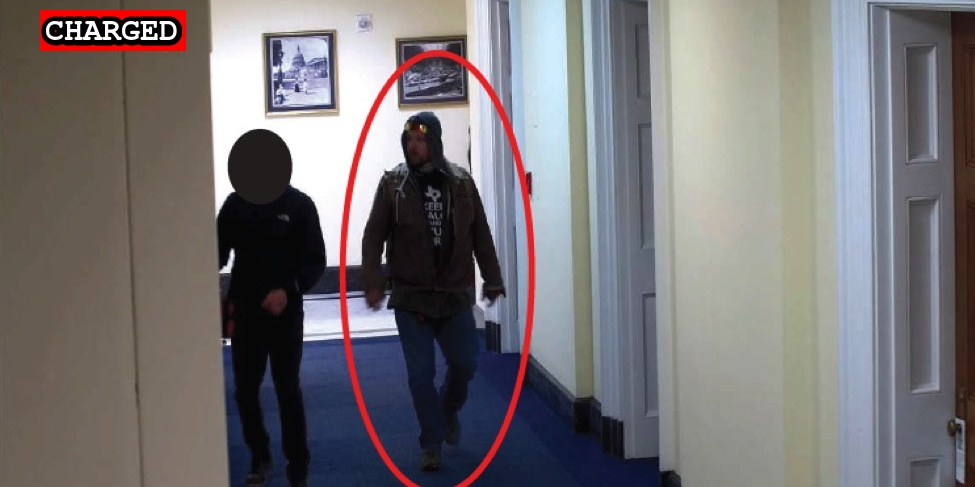
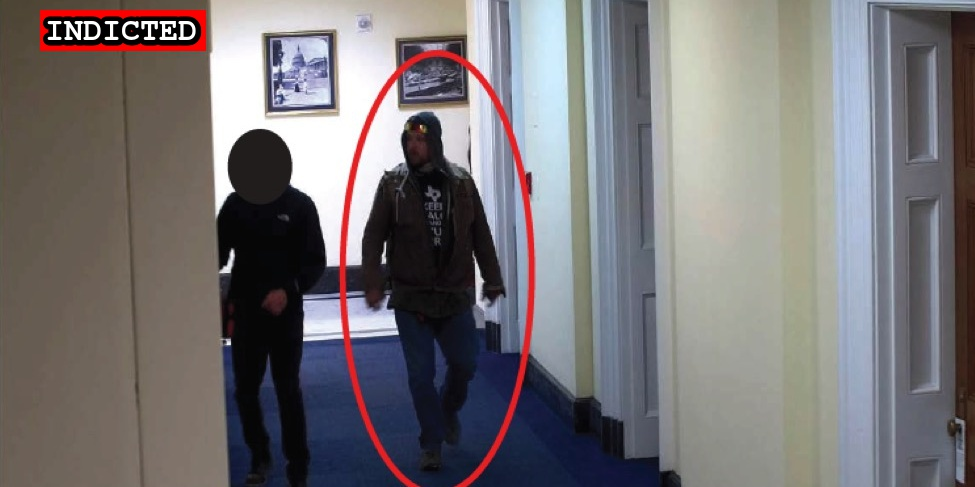
New indictments

Changed region(s): [[0.0308, 0.0, 0.2154, 0.1232]]

diff --git a/commands/suspect-import.ts b/commands/suspect-import.ts
@@ -353,6 +353,8 @@ const linkType = (description: string, lastName?: string) => {
         return "Government's Opposition to Modifying Conditions of Release"
       case /\.*Opposition to Defendant's Motion for Discovery/.test(description):
         return "Government's Opposition to Defendent's Motion for Discovery"
+      case /\.*Judgement\.*/.test(description):
+        return "Judgement"
       case /Bustle*/.test(description):
       case /grods\.pdf/.test(description):
         return "DOJ Press Release"

diff --git a/docs/suspects/traci-sunstrom.html b/docs/suspects/traci-sunstrom.html
@@ -1,0 +1,4 @@
+---
+layout: redirect
+slug: traci-sunstrum
+---

diff --git a/docs/_suspects/christopher-warnagiris.md b/docs/_suspects/christopher-warnagiris.md
@@ -3,13 +3,14 @@ name: Christopher Warnagiris
 lastName: Warnagiris
 aka:
 residence: Virginia
-status: Charged
+status: Indicted
 date: 2021-05-13
 charged: 2021-05-13
-indicted:
-convicted: 
-sentenced: 
-dismissed: 
+indicted: 2021-06-02
+convicted:
+sentenced:
+dismissed:
+deceased:
 age: 40
 occupation: Active Duty U.S. Marine Corps Officer
 affiliations:
@@ -29,6 +30,8 @@ layout: suspect
 published: true
 charges:
 ---
+
 - [News Report](https://www.newsweek.com/christopher-warnagiris-active-duty-marine-based-quantico-arrested-assaulting-officer-capitol-1591329)
 - [DOJ Press Release](https://www.justice.gov/usao-dc/pr/active-duty-us-marine-corps-officer-arrested-assault-federal-law-enforcement-officer)
 - [Statement of Facts](https://www.justice.gov/opa/press-release/file/1393941/download)
+- [Indictment](https://www.justice.gov/usao-dc/case-multi-defendant/file/1415461/download)

diff --git a/docs/_suspects/traci-sunstrum.md b/docs/_suspects/traci-sunstrum.md
@@ -1,15 +1,15 @@
 ---
-name: Traci Sunstrom
-lastName: Sunstrom
+name: Traci Sunstrum
+lastName: Sunstrum
 aka:
 residence: New York
 status: Charged
 date: 2021-04-13
 charged: 2021-04-13
 indicted:
-convicted: 
-sentenced: 
-dismissed: 
+convicted:
+sentenced:
+dismissed:
 age: 44
 occupation:
 affiliations:
@@ -22,12 +22,13 @@ courthouse:
 raid:
 perpwalk:
 quote:
-title: Traci Sunstrom charged on April 13, 2021
+title: Traci Sunstrum charged on April 13, 2021
 description: Click for latest case details. Suspects innocent until proven guilty.
 author: seditiontrack
 layout: suspect
 published: true
 charges:
 ---
+
 - [News Report](https://news.wbfo.org/post/four-more-local-suspects-charged-us-capitol-riot)
 - [Statement of Facts](https://www.justice.gov/usao-dc/case-multi-defendant/file/1395326/download)

diff --git a/docs/_suspects/ryan-suleski.md b/docs/_suspects/ryan-suleski.md
@@ -3,13 +3,14 @@ name: Ryan Suleski
 lastName: Suleski
 aka:
 residence: Virginia
-status: Charged
+status: Indicted
 date: 2021-03-05
 charged: 2021-03-05
-indicted:
-convicted: 
-sentenced: 
-dismissed: 
+indicted: 2021-05-26
+convicted:
+sentenced:
+dismissed:
+deceased:
 age: 37
 occupation:
 affiliations:
@@ -29,6 +30,8 @@ layout: suspect
 published: true
 charges:
 ---
+
 - [News Report (Twitter)](https://twitter.com/ryanjreilly/status/1377307092478873601)
 - [Statement of Facts](https://extremism.gwu.edu/sites/g/files/zaxdzs2191/f/Ryan%20Seth%20Suleski%20Statement%20of%20Facts.pdf)
 - [Complaint](https://extremism.gwu.edu/sites/g/files/zaxdzs2191/f/)
+- [Indictment](https://www.justice.gov/usao-dc/case-multi-defendant/file/1415001/download)

diff --git a/docs/_suspects/paul-hodgkins.md b/docs/_suspects/paul-hodgkins.md
@@ -8,8 +8,9 @@ date: 2021-02-09
 charged: 2021-02-09
 indicted: 2021-03-05
 convicted: 2021-06-02
-sentenced: 2021-07-19
+sentenced:
 dismissed: 
+deceased:
 age: 38
 occupation:
 affiliations:
@@ -34,3 +35,4 @@ charges:
 - [Indictment](https://www.justice.gov/usao-dc/case-multi-defendant/file/1377756/download)
 - [DOJ Press Release (Guilty Plea)](https://www.justice.gov/opa/pr/man-pleads-guilty-obstruction-official-proceeding-breaching-us-capitol-jan-6)
 - [Plea Agreement](https://extremism.gwu.edu/sites/g/files/zaxdzs2191/f/Paul%20Allard%20Hodgkins%20Plea%20Agreement.pdf)
+- [Judgement](https://www.justice.gov/usao-dc/case-multi-defendant/file/1415521/download)

diff --git a/docs/_suspects/douglas-wangler.md b/docs/_suspects/douglas-wangler.md
@@ -8,8 +8,9 @@ date: 2021-05-12
 charged: 2021-05-12
 indicted:
 convicted: 
-sentenced: 
+sentenced:
 dismissed: 
+deceased:
 age: 53
 occupation:
 affiliations:
@@ -32,3 +33,4 @@ charges:
 - [News Report](https://www.wcia.com/news/two-central-illinois-men-charged-in-january-6-capitol-attack/)
 - [Statement of Facts](https://extremism.gwu.edu/sites/g/files/zaxdzs2191/f/Douglas%20Wangler%20Bruce%20Harrison%20Statement%20of%20Facts.pdf)
 - [DOJ Press Release](https://www.justice.gov/usao-dc/case-multi-defendant/file/1394446/download)
+- [Information](https://www.justice.gov/usao-dc/case-multi-defendant/file/1415426/download)

diff --git a/docs/_suspects/michael-timbrook.md b/docs/_suspects/michael-timbrook.md
@@ -8,8 +8,9 @@ date: 2021-04-20
 charged: 2021-04-20
 indicted:
 convicted: 
-sentenced: 
+sentenced:
 dismissed: 
+deceased:
 age: 56
 occupation:
 affiliations:
@@ -32,3 +33,4 @@ charges:
 - [News Report](https://www.tennessean.com/story/news/local/2021/04/20/michael-timbrook-cookeville-charged-u-s-capitol-riots/7303194002/)
 - [Complaint](https://www.justice.gov/usao-dc/case-multi-defendant/file/1388351/download)
 - [Statement of Facts](https://www.justice.gov/usao-dc/case-multi-defendant/file/1388356/download)
+- [Information](https://www.justice.gov/usao-dc/case-multi-defendant/file/1415206/download)

diff --git a/docs/_suspects/lori-vinson.md b/docs/_suspects/lori-vinson.md
@@ -8,8 +8,9 @@ date: 2021-02-23
 charged: 2021-02-23
 indicted:
 convicted: 
-sentenced: 
+sentenced:
 dismissed: 
+deceased:
 age:
 occupation: Nurse
 affiliations:
@@ -32,3 +33,4 @@ charges:
 - [News Report](https://www.kentucky.com/news/local/crime/article249457150.html)
 - [FBI Statement (Twitter)](https://twitter.com/FBILouisville/status/1364284639385378825)
 - [Statement of Facts](https://extremism.gwu.edu/sites/g/files/zaxdzs2191/f/Lori%20Vinson%20and%20Thomas%20Vinson%20Statement%20of%20Facts.pdf)
+- [Information](https://www.justice.gov/usao-dc/case-multi-defendant/file/1415381/download)

diff --git a/docs/_suspects/philip-vogel.md b/docs/_suspects/philip-vogel.md
@@ -8,8 +8,9 @@ date: 2021-03-12
 charged: 2021-03-12
 indicted:
 convicted: 
-sentenced: 
+sentenced:
 dismissed: 
+deceased:
 age: 33
 occupation:
 affiliations:
@@ -31,3 +32,4 @@ charges:
 ---
 - [News Report](https://observer-reporter.com/news/localnews/former-houston-man-fianc-e-charged-in-capitol-insurrection/article_07ae2bca-88f7-11eb-9fa2-8bfe6a9097a8.html)
 - [Statement of Facts](https://extremism.gwu.edu/sites/g/files/zaxdzs2191/f/Philip%20Vogel%20II%20Statement%20of%20Facts.pdf)
+- [Information](https://www.justice.gov/usao-dc/case-multi-defendant/file/1415371/download)

diff --git a/docs/_suspects/daniel-warmus.md b/docs/_suspects/daniel-warmus.md
@@ -8,8 +8,9 @@ date: 2021-05-17
 charged: 2021-05-17
 indicted:
 convicted: 
-sentenced: 
+sentenced:
 dismissed: 
+deceased:
 age:
 occupation:
 affiliations:
@@ -32,3 +33,4 @@ charges:
 - [News Report](https://www.wivb.com/news/fbi-arrests-alden-man-for-alleged-participation-in-jan-6-capitol-attack/)
 - [Complaint](https://www.justice.gov/opa/case-multi-defendant/file/1395081/download)
 - [Statement of Facts](https://www.justice.gov/opa/case-multi-defendant/file/1395086/download)
+- [Information](https://www.justice.gov/usao-dc/case-multi-defendant/file/1415451/download)
